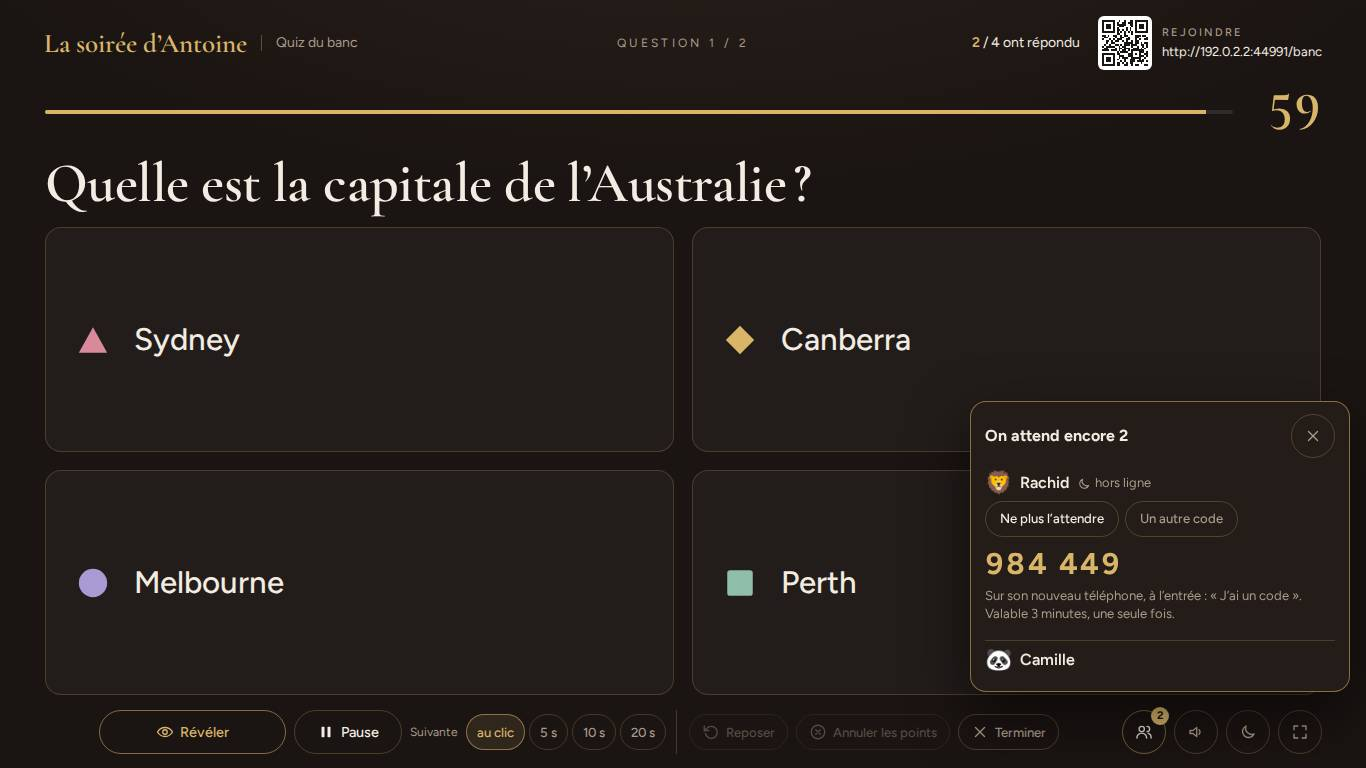
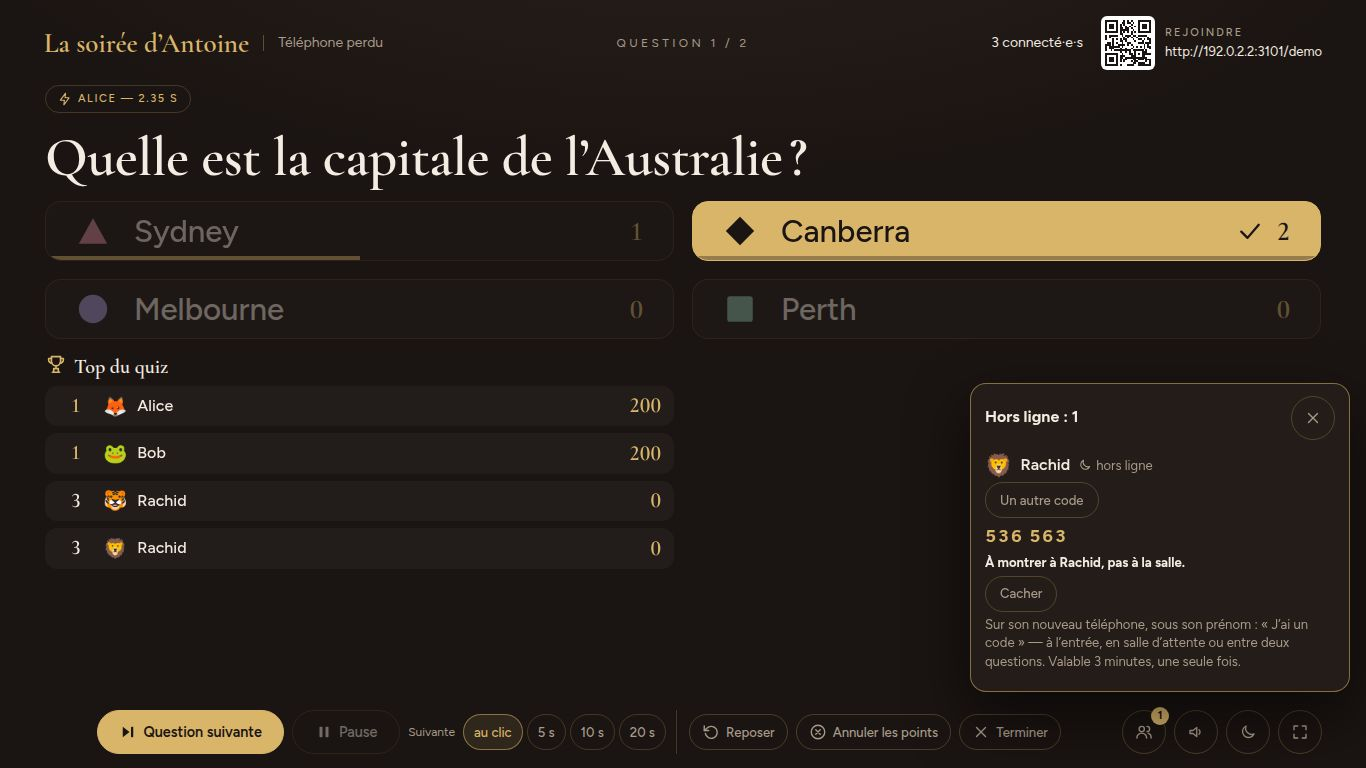
Le téléphone perdu : le README, la carte du code et les captures à jour
Claude-Session: https://claude.ai/code/session_012EEVQn8DzDMTAnGqPKWon3

diff --git a/README.md b/README.md
@@ -189,7 +189,7 @@ Pendant une question, **l'écran commun bascule en mode scène** : les panneaux 
 
 **Le vidéoprojecteur délave les noirs** : dans une salle éclairée, l'écran commun en fond sombre devient un rectangle gris où plus rien ne se lit. Un bouton de la console le passe en **mode Ivoire** — fond crème, encre sombre, les teintes des fiches imprimées du bilan — et l'y ramène : il montre le thème en cours, une lune en Velours, un soleil en Ivoire. Le choix est mémorisé sur le PC de l'animateur et ne concerne que l'écran commun : les téléphones des invités restent sombres, c'est ce qui ménage les yeux dans le noir.
 
-**L'animateur garde la main** : ⏸ pause (le chronomètre se fige, plus personne ne peut répondre), ↺ reposer la même question, ✖ annuler les points d'une question dont la réponse était fausse — l'écran commun comme les téléphones disent alors « Points annulés » —, renommer ou exclure un invité d'un clic sur sa pastille, entre deux quiz — pendant un quiz, le panneau des invités s'efface pour laisser la place à la question —, et ⛶ plein écran. Un invité exclu part avec ses points et ses réponses, et la salle ne l'attend plus. **Qui manque ?** — un bouton de la console, fermé par défaut, parce que la salle n'a pas à lire qui traîne — donne, pendant une question, les prénoms que la salle attend encore, les hors-ligne en tête ; jamais aux téléphones. Un invité hors ligne reste attendu, pour qu'un hoquet de réseau ne fasse pas révéler dans son dos ; mais quand son téléphone est mort, l'animateur peut **ne plus l'attendre**, et la révélation automatique revient — revenu en ligne, il est de nouveau attendu à la question suivante. Il peut aussi lui **rendre sa place** : la console fait paraître un code à six chiffres, à usage unique, valable trois minutes, que l'invité tape à l'entrée de son nouveau téléphone (« J'ai un code », proposé dès qu'il retape le prénom d'un invité hors ligne) — il retrouve son prénom, son avatar, son équipe et ses points. Le second invité qu'il s'était inscrit en attendant s'efface s'il n'a rien joué ; sinon il reste, avec ses points, et on ne l'attend plus. Ces gestes restent là pendant un quiz, quand le panneau des invités s'est effacé. Les clics qui touchent à la question — Révéler, Question suivante, Reposer, Annuler les points — disent laquelle ils visaient : un « Révéler » arrivé juste après la révélation automatique, un double clic, deux écrans animateurs ou une annulation confirmée après que la partie a avancé sont ignorés, au lieu de faire sauter la révélation à la salle ou de retirer les points de la question suivante. Aucun secret ne passe par la barre d'adresse : la session est dans un cookie que le navigateur garde pour lui.
+**L'animateur garde la main** : ⏸ pause (le chronomètre se fige, plus personne ne peut répondre), ↺ reposer la même question, ✖ annuler les points d'une question dont la réponse était fausse — l'écran commun comme les téléphones disent alors « Points annulés » —, renommer ou exclure un invité d'un clic sur sa pastille, entre deux quiz — pendant un quiz, le panneau des invités s'efface pour laisser la place à la question —, et ⛶ plein écran. Un invité exclu part avec ses points et ses réponses, et la salle ne l'attend plus. **Qui manque ?** — un bouton de la console, fermé par défaut, parce que la salle n'a pas à lire qui traîne — donne, pendant une question, les prénoms que la salle attend encore, les hors-ligne en tête ; jamais aux téléphones. Un invité hors ligne reste attendu, pour qu'un hoquet de réseau ne fasse pas révéler dans son dos ; mais quand son téléphone est mort, l'animateur peut **ne plus l'attendre**, et la révélation automatique revient — revenu en ligne, il est de nouveau attendu à la question suivante. Il peut aussi lui **rendre sa place** : la console prépare un code à six chiffres, à usage unique, valable trois minutes — caché tant que l'animateur ne clique pas « Montrer le code », puis écrit petit, « à montrer à Rachid, pas à la salle » : la console est peut-être l'écran commun. L'invité le tape sur son nouveau téléphone (« J'ai un code », proposé dès qu'il retape le prénom d'un invité hors ligne — à l'entrée, en salle d'attente, ou entre deux questions s'il s'est déjà réinscrit) et retrouve son prénom, son avatar, son équipe et ses points ; son ancien téléphone, s'il se rallume, repasse par l'entrée. Le second invité qu'il s'était inscrit en attendant s'efface s'il n'a rien joué ; sinon il reste, avec ses points, et on ne l'attend plus — et si sa réponse à la question ouverte attend encore la révélation, la reprise attend avec elle. Pas de code pour un invité à profil : se connecter à son profil lui rend déjà sa place. Les codes faux sont comptés : cinq par minute dans la soirée, sans rien faire tomber. Ces gestes restent là pendant un quiz, quand le panneau des invités s'est effacé. Les clics qui touchent à la question — Révéler, Question suivante, Reposer, Annuler les points — disent laquelle ils visaient : un « Révéler » arrivé juste après la révélation automatique, un double clic, deux écrans animateurs ou une annulation confirmée après que la partie a avancé sont ignorés, au lieu de faire sauter la révélation à la salle ou de retirer les points de la question suivante. Aucun secret ne passe par la barre d'adresse : la session est dans un cookie que le navigateur garde pour lui.
 
 **Suivante : au clic · 5 s · 10 s · 20 s** : en automatique, la question suivante part toute seule après la révélation, avec un décompte affiché. Un quiz de dix questions demandait vingt clics — autant d'occasions de décrocher de la soirée. Cinq secondes laissent lire la bonne réponse, pour un quiz qu'on enchaîne sans le commenter ; dix et vingt, le temps de faire rire la salle ; et « au clic » reprend la main d'un seul geste, comme corriger ou reposer une question.
 

diff --git a/CLAUDE.md b/CLAUDE.md
@@ -45,7 +45,7 @@ server/test/        un fichier par thème, un serveur jetable chacun
 | `games/quiz.ts` | **toutes** les règles : phases, chronomètres, barème (le temps de lecture offert au QCM, l'estimation payée à la distance), vues |
 | `core/space.ts` | la soirée d'un espace : ses registres, ses salons socket, ses diffusions, son nom figé, ses crédits |
 | `core/party.ts` | le registre des invités (identité par jeton, rattachement au profil, marques d'homonymie, connexions par socket) |
-| `core/places.ts` | « Rendre sa place » : les codes à usage unique qui rendent sa fiche à un invité dont le téléphone est mort — en mémoire, vite périmés, essais comptés |
+| `core/places.ts` | « Rendre sa place » : les codes à usage unique qui rendent sa fiche à un invité dont le téléphone est mort — en mémoire, vite périmés, cinq essais manqués par minute ; jamais pour une fiche à profil, et la reprise renouvelle le jeton |
 | `core/scores.ts` | journal des gains, en ajout seul |
 | `core/answers.ts` | une ligne par invité et par question posée, y compris sans réponse |
 | `core/backup.ts` | le miroir de la soirée dans Turso : une file par espace, ordonnée, qui insiste ; la resynchronisation après une panne ; sa santé |
